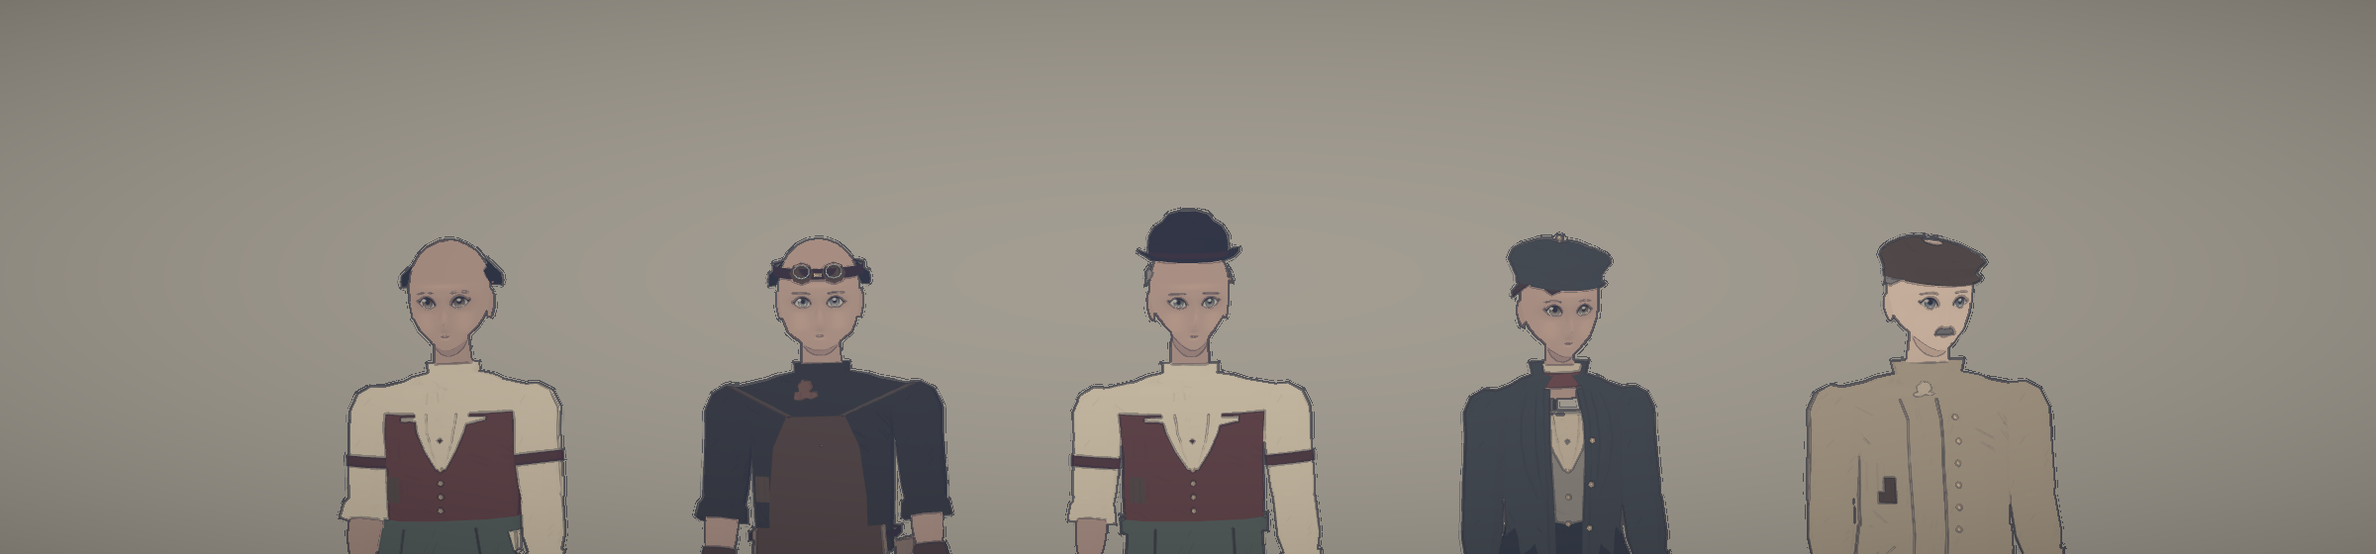
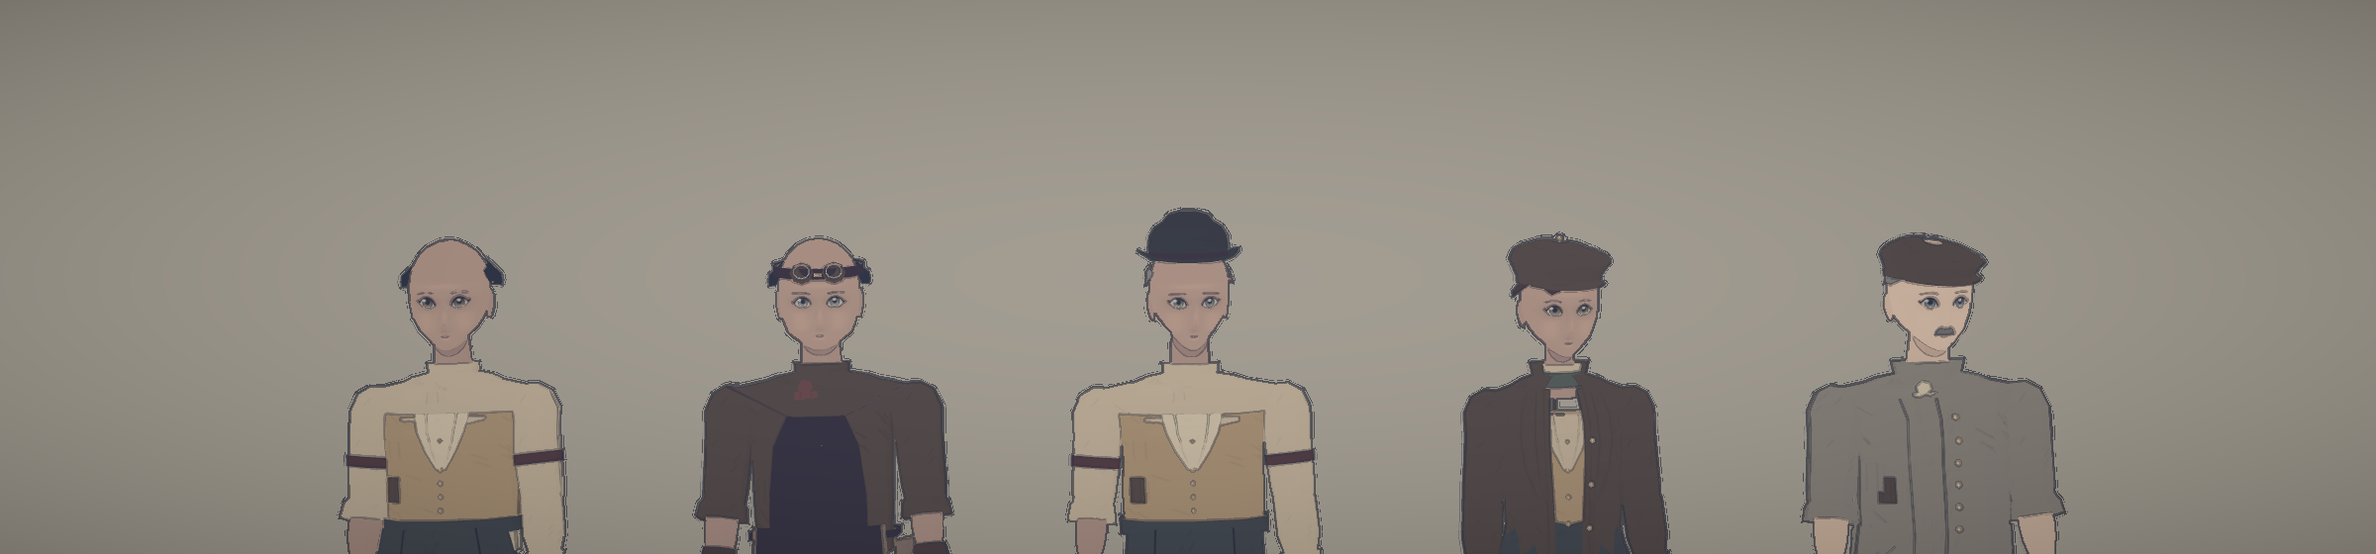
People XX: curated variation — every street archetype has at least three authored outfits (the courier's buttoned coat to mid-thigh and shirt-sleeves-and-waistcoat beside his jacket, the stallholder's shawl over a bibless apron, the older mechanic's canvas work apron beside his shop coat) and every 
Entire-Checkpoint: 01M4CJNK04WB8E5E0V7S1BC1SH

diff --git a/src/world/people/look.ts b/src/world/people/look.ts
@@ -33,8 +33,9 @@ export interface Cast {
   /** the face rows this cast is drawn from, where it narrows the head shape's rows (the older mechanic's heavier brows) */ faceRows?: readonly number[];
 }
 
-/** Faces are rows of the atlas. Rows 2 (teal), 3 (violet) and 7 (red) carry irises the Book forbids; they stay out of every table until the atlas is repainted. */
-export const FACE_ROWS: Record<HeadShape, readonly number[]> = { oval: [0, 1, 5], square: [4, 6, 0], long: [4, 5, 1], heart: [1, 5, 6] };
+/** Faces are rows of the atlas. The new builder's atlas (citizens.ts `faceTypesNext`) paints all eight rows with the Book's irises, so every row is dealt: six to each head shape, the hooked
+ *  nose and the heavier brows (2, 4, 6) to the square and long heads, the button and dot noses (1, 3, 5, 7) to the oval and heart. */
+export const FACE_ROWS: Record<HeadShape, readonly number[]> = { oval: [0, 1, 5, 3, 7, 2], square: [4, 6, 0, 2, 7, 3], long: [4, 5, 1, 2, 6, 7], heart: [1, 5, 6, 3, 0, 7] };
 /** Which hair a hat leaves room for. A hat never sits on a full head of hair (Book 7). */
 export const HAT_HAIR: Record<Hat, readonly HairStyle[]> = {
   none: ['shortCrop', 'sidePart', 'sweptBack', 'tousled', 'bob', 'lowBun', 'highKnot', 'ponytail', 'longTied', 'balding'],
@@ -54,35 +55,39 @@ export const CASTS: Record<CastId, Cast> = {
       o('rowCoat.closed', { ash: ['charcoal', 'stone', 'navy', 'charcoal', 'mustard'], oxblood: ['oxblood', 'canvas', 'slate', 'umber', 'stone'], stone: ['stone', 'umber', 'navy', 'stone', 'oxblood'] })] },
   rowSkirt: { id: 'rowSkirt', archetype: 'resident', families: ['slim', 'standard'], frames: ['narrow'], headShapes: allShapes, hair: ['lowBun', 'bob', 'ponytail', 'highKnot', 'longTied'], hairColours: young, hats: ['none', 'headscarf'], facial: [['none', 1]],
     slots: ['shawl', 'bodice', 'skirt', 'scarf'], asymmetries: ['scarfTail', 'pouchHip', 'apronTie'],
-    outfits: [o('rowSkirt.shawl', { ash: ['slate', 'bone', 'umber', 'greyGreen'], plum: ['oxblood', 'cream', 'charcoal', 'bone'] }), o('rowSkirt.plain', { moss: ['greyGreen', 'bone', 'umber', 'mustard'], umber: ['umber', 'cream', 'slate', 'oxblood'] })] },
+    outfits: [o('rowSkirt.shawl', { ash: ['slate', 'bone', 'umber', 'greyGreen'], plum: ['oxblood', 'cream', 'charcoal', 'bone'], ochre: ['mustard', 'cream', 'umber', 'slate'] }), o('rowSkirt.plain', { moss: ['greyGreen', 'bone', 'umber', 'mustard'], umber: ['umber', 'cream', 'slate', 'oxblood'], slate: ['slate', 'bone', 'charcoal', 'rust'] })] },
   elder: { id: 'elder', archetype: 'resident', families: ['slim'], frames: ['broad', 'narrow'], headShapes: ['oval', 'long', 'square'], hair: ['balding', 'shortCrop', 'lowBun', 'sidePart'], hairColours: aged, hats: ['elderHat', 'softCap', 'none'], facial: [['none', 4], ['moustache', 2], ['beard', 1]], elder: true,
     slots: ['coat', 'waistcoat', 'trousers', 'hat'], asymmetries: ['stick', 'basket', 'scarfTail'],
-    outfits: [o('elder.longCoat', { ash: ['charcoal', 'stone', 'stone', 'charcoal'], umber: ['umber', 'bone', 'slate', 'umber'] })] },
+    outfits: [o('elder.longCoat', { ash: ['charcoal', 'stone', 'stone', 'charcoal'], umber: ['umber', 'bone', 'slate', 'umber'], moss: ['greyGreen', 'bone', 'umber', 'greyGreen'] })] },
   affluent: { id: 'affluent', archetype: 'resident', families: ['slim', 'standard'], frames: ['broad', 'narrow'], headShapes: ['oval', 'long', 'heart'], hair: ['sweptBack', 'sidePart', 'lowBun', 'highKnot'], hairColours: young, hats: ['topHat', 'bonnet'], facial: [['none', 1]],
     slots: ['frock', 'waistcoat', 'trousers', 'hat', 'trim'], asymmetries: ['watchChain', 'unevenFront'],
-    outfits: [o('affluent.frock', { oxblood: ['burgundy', 'cream', 'slate', 'soot', 'mustard'], navy: ['navy', 'bone', 'stone', 'soot', 'ochre'] })] },
+    outfits: [o('affluent.frock', { oxblood: ['burgundy', 'cream', 'slate', 'soot', 'mustard'], navy: ['navy', 'bone', 'stone', 'soot', 'ochre'], moss: ['greyGreen', 'cream', 'charcoal', 'soot', 'ochre'] })] },
   stallholder: { id: 'stallholder', archetype: 'merchant', families: ['standard', 'sturdy'], frames: ['broad', 'narrow'], headShapes: allShapes, hair: ['lowBun', 'bob', 'tousled'], hairColours: young, hats: ['headscarf', 'none'], facial: [['none', 1]],
     slots: ['blouse', 'skirt', 'apron', 'scarf'], asymmetries: ['apronTie', 'pouchHip', 'scarfTail'],
-    outfits: [o('stallholder.apron', { ochre: ['cream', 'ochre', 'canvas', 'burgundy'], wine: ['bone', 'burgundy', 'stone', 'mustard'] })] },
+    outfits: [o('stallholder.apron', { ochre: ['cream', 'ochre', 'canvas', 'burgundy'], wine: ['bone', 'burgundy', 'stone', 'mustard'], slate: ['bone', 'slate', 'canvas', 'oxblood'] }),
+      o('stallholder.shawl', { moss: ['cream', 'greyGreen', 'bone', 'umber'], rust: ['bone', 'rust', 'canvas', 'slate'], navy: ['cream', 'navy', 'stone', 'mustard'] })] },
   shopMerchant: { id: 'shopMerchant', archetype: 'merchant', families: ['standard', 'sturdy'], frames: ['broad', 'narrow'], headShapes: allShapes, hair: ['sidePart', 'shortCrop', 'balding'], hairColours: mid, hats: ['bowler', 'none'], facial: [['none', 4], ['sideburns', 1]],
     slots: ['waistcoat', 'shirt', 'trousers', 'apron', 'hat'], asymmetries: ['watchChain', 'pencilEar', 'sleeveGarters'],
-    outfits: [o('shopMerchant.waistcoat', { wine: ['burgundy', 'cream', 'charcoal', 'greyGreen', 'soot'], ochre: ['mustard', 'bone', 'navy', 'slate', 'charcoal'] })] },
+    outfits: [o('shopMerchant.waistcoat', { wine: ['burgundy', 'cream', 'charcoal', 'greyGreen', 'soot'], ochre: ['mustard', 'bone', 'navy', 'slate', 'charcoal'], slate: ['slate', 'cream', 'umber', 'canvas', 'soot'] })] },
   labourer: { id: 'labourer', archetype: 'worker', families: ['sturdy', 'standard'], frames: ['broad'], headShapes: allShapes, hair: ['shortCrop', 'tousled', 'sidePart'], hairColours: young, hats: ['flatCap', 'none', 'softCap'], facial: [['none', 4], ['sideburns', 1]],
     slots: ['shirt', 'trousers', 'braces', 'cap', 'kerchief'], asymmetries: ['pouchHip', 'ragBelt', 'braceDown'], story: ['leatherApron', 'hook'],
     outfits: [o('labourer.braced', { dust: ['canvas', 'umber', 'leatherDark', 'slate', 'rust'], soot: ['stone', 'charcoal', 'leatherDark', 'soot', 'oxblood'], moss: ['greyGreen', 'stone', 'leather', 'umber', 'mustard'] }),
-      o('labourer.vested', { umber: ['bone', 'rust', 'oxblood', 'umber', 'greyGreen'], grey: ['canvas', 'slate', 'charcoal', 'stone', 'rust'] })] },
+      o('labourer.vested', { umber: ['bone', 'rust', 'oxblood', 'umber', 'greyGreen'], grey: ['canvas', 'slate', 'charcoal', 'stone', 'rust'], ochre: ['cream', 'umber', 'ochre', 'charcoal', 'oxblood'] })] },
   foundry: { id: 'foundry', archetype: 'worker', families: ['sturdy'], frames: ['broad', 'narrow'], headShapes: ['square', 'oval', 'long'], hair: ['shortCrop', 'tousled', 'balding'], hairColours: young, hats: ['kerchief', 'none'], facial: [['none', 4], ['sideburns', 1]],
     slots: ['shirt', 'trousers', 'apron', 'kerchief'], asymmetries: ['gogglesUp', 'pouchHip'],
-    outfits: [o('foundry.apron', { soot: ['charcoal', 'rust', 'leather', 'rust'], umber: ['umber', 'greyGreen', 'leatherDark', 'oxblood'] })] },
+    outfits: [o('foundry.apron', { soot: ['charcoal', 'rust', 'leather', 'rust'], umber: ['umber', 'greyGreen', 'leatherDark', 'oxblood'], grey: ['stone', 'charcoal', 'leather', 'slate'] })] },
   youngMechanic: { id: 'youngMechanic', archetype: 'engineer', families: ['slim', 'standard'], frames: ['broad', 'narrow'], headShapes: allShapes, hair: ['tousled', 'sweptBack', 'shortCrop', 'ponytail'], hairColours: young, hats: ['softCap', 'none'], facial: [['none', 4], ['sideburns', 1]],
     slots: ['jacket', 'shirt', 'trousers', 'roll', 'cap'], asymmetries: ['toolRoll', 'gogglesUp', 'ragBelt'], story: ['valveSleeve'],
-    outfits: [o('youngMechanic.jacket', { slate: ['slate', 'bone', 'canvas', 'leather', 'slate'], moss: ['greyGreen', 'cream', 'umber', 'leatherDark', 'greyGreen'] })] },
+    outfits: [o('youngMechanic.jacket', { slate: ['slate', 'bone', 'canvas', 'leather', 'slate'], moss: ['greyGreen', 'cream', 'umber', 'leatherDark', 'greyGreen'], umber: ['umber', 'bone', 'charcoal', 'leatherDark', 'umber'] })] },
   olderMechanic: { id: 'olderMechanic', archetype: 'engineer', families: ['standard', 'sturdy'], frames: ['broad', 'narrow'], headShapes: allShapes, hair: ['balding', 'shortCrop', 'sidePart'], hairColours: ['iron'], hats: ['flatCap', 'none'], facial: [['moustache', 5], ['beard', 1], ['none', 1]], faceRows: [2, 4, 6],
     slots: ['shopCoat', 'shirt', 'trousers', 'cap'], asymmetries: ['spectacles', 'pencilEar', 'ragBelt'],
-    outfits: [o('olderMechanic.shopCoat', { canvas: ['canvas', 'bone', 'greenCharcoal', 'umber'], slate: ['slate', 'cream', 'navy', 'slate'] })] },
+    outfits: [o('olderMechanic.shopCoat', { canvas: ['canvas', 'bone', 'greenCharcoal', 'umber'], stone: ['stone', 'cream', 'navy', 'umber'], bone: ['bone', 'cream', 'umber', 'leather'] }),
+      o('olderMechanic.apron', { canvas: ['canvas', 'bone', 'charcoal', 'umber'], bone: ['bone', 'cream', 'navy', 'slate'], stone: ['stone', 'cream', 'umber', 'greenCharcoal'] })] },
   courier: { id: 'courier', archetype: 'courier', families: ['slim'], frames: ['broad', 'narrow'], headShapes: allShapes, hair: ['shortCrop', 'tousled', 'ponytail', 'bob'], hairColours: young, hats: ['softCap'], facial: [['none', 1]],
     slots: ['jacket', 'shirt', 'trousers', 'satchel', 'scarf', 'cap'], asymmetries: ['satchelStrap', 'scarfTail'], story: ['threadStrap', 'noSatchel', 'scarfUp'],
-    outfits: [o('courier.jacket', { oxblood: ['oxblood', 'bone', 'greyGreen', 'leather', 'mustard', 'umber'], slate: ['slate', 'cream', 'umber', 'leather', 'oxblood', 'slate'] })] },
+    outfits: [o('courier.jacket', { oxblood: ['oxblood', 'bone', 'greyGreen', 'leather', 'mustard', 'umber'], slate: ['slate', 'cream', 'umber', 'leather', 'oxblood', 'slate'], moss: ['greyGreen', 'bone', 'umber', 'leather', 'oxblood', 'greyGreen'] }),
+      o('courier.coat', { umber: ['umber', 'cream', 'slate', 'leatherDark', 'mustard', 'umber'], navy: ['navy', 'bone', 'charcoal', 'leather', 'rust', 'navy'], rust: ['rust', 'bone', 'charcoal', 'leather', 'slate', 'charcoal'] }),
+      o('courier.vest', { mustard: ['mustard', 'cream', 'umber', 'leather', 'slate', 'umber'], stone: ['stone', 'bone', 'navy', 'leatherDark', 'oxblood', 'slate'], moss: ['greyGreen', 'cream', 'charcoal', 'leather', 'mustard', 'greyGreen'] })] },
   garrison: { id: 'garrison', archetype: 'guard', families: ['standard', 'sturdy'], frames: ['broad'], headShapes: ['square', 'oval', 'long'], hair: ['shortCrop'], hairColours: mid, hats: ['kepi'], facial: [['none', 4], ['moustache', 1], ['sideburns', 1]],
     slots: ['greatcoat', 'trousers', 'crossbelt', 'kepi'], asymmetries: ['crossbelt'],
     outfits: [o('garrison.greatcoat', { ordinance: ['greenCharcoal', 'soot', 'leatherDark', 'greenCharcoal'] })] },
@@ -108,6 +113,8 @@ export function hash(seed: number, stream: number): number {
 const unit = (seed: number, stream: number) => hash(seed, stream) / 4294967296;
 const pick = <T>(list: readonly T[], seed: number, stream: number): T => list[Math.floor(unit(seed, stream) * list.length)];
 const weighted = <T>(list: readonly (readonly [T, number])[], seed: number, stream: number): T => { const total = list.reduce((a, [, w]) => a + w, 0); let r = unit(seed, stream) * total; for (const [v, w] of list) { r -= w; if (r < 0) return v; } return list[list.length - 1][0]; };
+/** Every cast's place in the table: mixed into the face's streams, so one seed is a different face in every cast. */
+const CAST_N: Record<string, number> = {};
 /** The stream numbers, one per step of Book 11. */
 const S = { cast: 1, family: 2, frame: 3, stature: 4, skin: 5, shape: 6, face: 7, hat: 8, hair: 9, hairColour: 10, facial: 11, outfit: 12, palette: 13, asym: 14, asymCount: 15 } as const;
 
@@ -140,10 +147,15 @@ export function resolveLook(seed: number, archetype: Archetype, opts: LookOpts =
   const pool = ARCHETYPE_CASTS[archetype].filter(([c]) => !opts.casts || opts.casts.includes(c));
   const cast = CASTS[opts.cast ?? weighted(pool.length ? pool : ARCHETYPE_CASTS[archetype], seed, S.cast)];
   const family = opts.family ?? pick(cast.families, seed, S.family), frame = opts.frame ?? pick(cast.frames, seed, S.frame);
-  const stature = Math.round((.96 + .08 * unit(seed, S.stature)) * 1000) / 1000, skin = Math.floor(unit(seed, S.skin) * 3) as 0 | 1 | 2;
-  const headShape = pick(cast.headShapes, seed, S.shape), rows = FACE_ROWS[headShape].filter(r => !cast.faceRows || cast.faceRows.includes(r)), faceType = pick(rows.length ? rows : FACE_ROWS[headShape], seed, S.face);
+  // the face is drawn from the seed mixed with the cast (Book 11, "Variation"): never a function of the seed alone, so the same seed is a different person in every cast
+  const fs = hash(seed, 1000 + (CAST_N[cast.id] ??= Object.keys(CASTS).indexOf(cast.id)));
+  const stature = Math.round((.96 + .08 * unit(seed, S.stature)) * 1000) / 1000, skin = Math.floor(unit(fs, S.skin) * 3) as 0 | 1 | 2;
+  const headShape = pick(cast.headShapes, fs, S.shape), rows = FACE_ROWS[headShape].filter(r => !cast.faceRows || cast.faceRows.includes(r)), faceType = pick(rows.length ? rows : FACE_ROWS[headShape], fs, S.face);
   const hat = pick(cast.hats, seed, S.hat), hairStyle = pick(cast.hair.filter(h => HAT_HAIR[hat].includes(h)), seed, S.hair), hairColour = pick(cast.hairColours, seed, S.hairColour);
-  const facial = weighted(cast.facial, seed, S.facial), outfit = pick(cast.outfits, seed, S.outfit), pal = pick(Object.keys(outfit.palettes), seed, S.palette);
+  // outfit and palette are one authored combination, and neighbouring seeds (the spawn order) draw from alternate halves of the cast's combinations, so two of a cast side by side never
+  // wear the same outfit in the same colours (Book 11)
+  const combos = cast.outfits.flatMap(o2 => Object.keys(o2.palettes).map(p => [o2, p] as const)), half = combos.filter((_, i) => i % 2 === (seed & 1));
+  const facial = weighted(cast.facial, seed, S.facial), [outfit, pal] = pick(half.length ? half : combos, seed, S.outfit);
   const n = Math.min(cast.asymmetries.length, 1 + Math.floor(unit(seed, S.asymCount) * 2)), pool2 = [...cast.asymmetries], asymmetries: string[] = [];
   for (let i = 0; i < n; i++) asymmetries.push(pool2.splice(Math.floor(unit(seed, S.asym + 100 * i) * pool2.length), 1)[0]);
   return { cast: cast.id, family, frame, stature, skin, headShape, faceType, hairStyle, hairColour, hat, facial, outfit: outfit.id, palette: pal, asymmetries };

diff --git a/src/world/people/wardrobe.ts b/src/world/people/wardrobe.ts
@@ -331,7 +331,8 @@ export function dress(x: X) {
     longShell(rings, { start: 0, arc: Math.PI * 2 }, skirtM, 'stallskirt', .014);
     hemLoft(rings, .006, .008, 'stallhem', c(shade(I('skirt'), .8)));
     skirt.drop = .34; skirt.depth = .34;
-    apron(ap, { hemY: .36, hemW: .5, hemD: .6, aw: .95, bib: true, strapM: tie });
+    apron(ap, { hemY: .36, hemW: .5, hemD: .6, aw: .95, bib: look.outfit !== 'stallholder.shawl', strapM: tie });
+    if (look.outfit === 'stallholder.shawl') shawl(wool(I('scarf')), c(mix(I('scarf'), P.cloth.bone, .5))); // People XX: the shawl outfit
     if (asym.has('pouchHip')) pouch(lifted, offset(rib, .04), 1.06, -1.5, -1.1, leatherM);
     arms({ upM: blouse, off: .017, rolled: () => true });
     legs({ thighM: c(P.cloth.soot), boot: leatherDM, sole: lea(shade(LEATHERD, .7)), heavy: true, turnup: false, top: -.3 });
@@ -375,20 +376,30 @@ export function dress(x: X) {
     arms({ upM: jk, off: .017, shirtCuff: sh, glove, board: valve });
     legs({ thighM: trou, boot: leatherM, sole: lea(shade(LEATHERD, .6)), top: -.08, turnup: false, heavy: false, bootCuff: leatherDM, fit: .005 });
   }
-  if (id === 'olderMechanic') {
+  if (id === 'olderMechanic' && look.outfit !== 'olderMechanic.apron') {
     const coat = c(I('shopCoat')), sh = c(I('shirt')), trou = wool(I('trousers'));
     shirt(sh, { placket: false, collar: true, yoke: false, front: .3 });
     const r = jacket(coat, { closed: true, off: .02, hem: .48, hemW: .54, hemD: .46, curve: 1, buttons: 5, stand: true });
     for (const s of [-1, 1]) put0(tails, plate(r.rings!, [[-.1, s * .6, s * 1.15], [-.24, s * .6, s * 1.15]], .0, .008, 4), coat);
     put0(lifted, plate(r.cR, [[1.3, -1.25, -.8], [1.22, -1.25, -.8]], .0, .007, 3), coat);
     if (asym.has('ragBelt')) put0(tails, sweep([0, .3, .6, 1].map(t => ({ p: [.15 + t * .01, -.04 - t * .22, r.rings![0].f + .03] as Pt, a: .025, b: .004, n: [0, 0, 1] as Pt })), { seg: 4, capStart: true, capEnd: true }), c(P.cloth.bone));
-    arms({ upM: coat, off: .019, shirtCuff: sh });
+    arms({ upM: coat, off: .019, shirtCuff: sh, rolled: () => true });
+    legs({ thighM: trou, boot: leatherDM, sole: lea(shade(LEATHERD, .7)), top: -.34, turnup: true });
+  }
+  if (id === 'olderMechanic' && look.outfit === 'olderMechanic.apron') { // People XX: shirt sleeves rolled and a light canvas work apron to the shin, a rule in the bib pocket
+    const apM = c(I('shopCoat')), sh = c(I('shirt')), trou = wool(I('trousers'));
+    shirt(sh, { placket: true, collar: true }); belt(leatherDM, 1.07, .036, .018);
+    apron(apM, { hemY: .34, hemW: .5, hemD: .52, aw: .9, bib: true, strapM: leatherDM });
+    { const q = surface(offset(rib, .024), 1.36, .3, .004); put0(lifted, new T.Mesh(new T.BoxGeometry(.012, .09, .006)).geometry, steel, q.p.toArray() as Pt); }
+    if (asym.has('ragBelt')) put0(lifted, sweep([0, .3, .6, 1].map(t => { const q = surface(offset(rib, .04), 1.06, -1.0, .004); return { p: [q.p.x - t * .012, q.p.y - t * .2, q.p.z + .004 + t * .02] as Pt, a: .024, b: .004, n: [0, 0, 1] as Pt }; }), { seg: 4, capStart: true, capEnd: true }), c(P.cloth.bone));
+    arms({ upM: sh, off: .012, rolled: () => true });
     legs({ thighM: trou, boot: leatherDM, sole: lea(shade(LEATHERD, .7)), top: -.34, turnup: true });
   }
   if (id === 'courier') {
     const jk = wool(I('jacket')), sh = c(I('shirt')), trou = wool(I('trousers')), bag = lea(I('satchel')), strapSide = asym.has('satchelStrap') ? -1 : 1;
-    shirt(sh, { placket: true, collar: true, yoke: false, front: .8 });
-    const r = jacket(jk, { off: .02, aL: .2, aR: .2, hem: .88, hemW: .4, hemD: .32, buttons: 3, lapel: false });
+    const cut = look.outfit === 'courier.coat' ? 'coat' : look.outfit === 'courier.vest' ? 'vest' : 'jacket'; // People XX: a short jacket, a buttoned coat to mid-thigh, or shirt sleeves and a waistcoat
+    shirt(sh, { placket: true, collar: true, yoke: false, front: cut === 'vest' ? undefined : .8 });
+    const r = cut === 'vest' ? { cR: waistcoat(jk, { buttons: 4 }), rings: undefined } : jacket(jk, cut === 'coat' ? { off: .02, closed: true, hem: .64, hemW: .46, hemD: .36, buttons: 4, stand: true } : { off: .02, aL: .2, aR: .2, hem: .88, hemW: .4, hemD: .32, buttons: 3, lapel: false });
     belt(leatherDM, 1.06, .045);
     // the satchel strap wraps the jacket's own surface: over the shoulder, across the chest, round the side to the bag on the opposite hip
     const sd = strapSide, pts: SweepPt[] = [[1.52, sd * 1.35], [1.46, sd * .85], [1.38, sd * .42], [1.28, -sd * .05], [1.18, -sd * .6], [1.08, -sd * 1.05], [1.0, -sd * 1.5]].map(([y, a]) => { const q = surface(r.cR, y, a, .008); return { p: q.p.toArray() as Pt, a: .02, b: .005, n: q.n.toArray() as Pt }; });
@@ -400,7 +411,7 @@ export function dress(x: X) {
     put0(bg, loft([{ y: -.1, w: .115, f: .045, b: .045, n: 2.6 }, { y: 0, w: .125, f: .052, b: .052, n: 2.6 }, { y: .1, w: .12, f: .048, b: .048, n: 2.6 }], { seg: 10, capStart: 'flat', capEnd: 'flat', key: key('bag') }), bag, [0, -.04, .05]);
     put0(bg, plate([{ y: .1, w: .125, f: .05, b: .05, z: .05, n: 2.6 }, { y: -.0, w: .13, f: .056, b: .056, z: .05, n: 2.6 }], [[.1, -1.1, 1.1], [.0, -1.15, 1.15], [-.04, -.7, .7]], .0, .008, 6), edgeM, [0, -.04, 0]);
     put0(bg, new T.Mesh(new T.BoxGeometry(.03, .026, .008), brass).geometry, brass, [0, -.07, .112]); }
-    arms({ upM: jk, off: .017, shirtCuff: sh });
+    arms(cut === 'vest' ? { upM: sh, off: .011, rolled: () => true } : { upM: jk, off: .017, shirtCuff: sh });
     legs({ thighM: trou, boot: leatherM, sole: lea(shade(LEATHERD, .55)), heavy: true, top: -.22, turnup: false, fit: .004, bootCuff: leatherDM });
   }
   if (id === 'child') {

diff --git a/tests/variation.test.ts b/tests/variation.test.ts
@@ -1,0 +1,51 @@
+import { test } from 'node:test';
+import assert from 'node:assert/strict';
+import * as T from 'three';
+import { ARCHETYPE_CASTS, CASTS, resolveLook, type Look } from '../src/world/people/look.ts';
+import { buildFigure, BUILT } from '../src/world/people/figure.ts';
+import { kit } from './people-rig.ts';
+import type { Archetype } from '../src/world/palette.ts';
+
+/** Book 11, "Variation minimums" (People XX): curated options, measured the way QA II measured them (looks.json: seeds 0..19 of each street archetype under the street's cast weights). */
+const STREET: Archetype[] = ['resident', 'worker', 'merchant', 'courier', 'engineer'];
+const row = (a: Archetype, n = 20, from = 0) => Array.from({ length: n }, (_, i) => resolveLook(from + i, a, { casts: BUILT }));
+const face = (l: Look) => `${l.skin}/${l.headShape}/${l.faceType}`;
+
+test('at least 40 distinct faces in every hundred figures', () => {
+  for (const from of [0, 20, 100, 500]) {
+    const all = STREET.flatMap(a => row(a, 20, from)), n = new Set(all.map(face)).size;
+    assert.ok(n >= 40, `seeds ${from}..${from + 19}: ${n} distinct faces in 100`);
+  }
+});
+
+test('at most 10 of 95 neighbouring pairs share an outfit and palette; two of a cast side by side never do', () => {
+  let rep = 0; for (const a of STREET) { const r = row(a); for (let i = 1; i < r.length; i++) if (r[i].outfit === r[i - 1].outfit && r[i].palette === r[i - 1].palette) rep++; }
+  assert.ok(rep <= 10, `${rep} of 95 neighbours repeat`);
+  for (const a of Object.keys(ARCHETYPE_CASTS) as Archetype[]) for (const [cast] of ARCHETYPE_CASTS[a]) if (CASTS[cast].outfits.flatMap(o => Object.keys(o.palettes)).length > 1) for (let s = 1; s < 400; s++) { // (the Ordinance wears one uniform by design)
+    const p = resolveLook(s - 1, a, { cast }), q = resolveLook(s, a, { cast });
+    assert.ok(p.outfit !== q.outfit || p.palette !== q.palette, `${cast}: seeds ${s - 1} and ${s} wear the same ${q.outfit}/${q.palette}`);
+  }
+});
+
+test('every street archetype has at least three outfits, and every street outfit at least three palettes', () => {
+  for (const a of STREET) {
+    const casts = ARCHETYPE_CASTS[a].map(([c]) => CASTS[c]), outfits = casts.flatMap(c => c.outfits);
+    assert.ok(outfits.length >= 3, `${a}: ${outfits.length} outfits`);
+    for (const o of outfits) assert.ok(Object.keys(o.palettes).length >= 3, `${o.id}: ${Object.keys(o.palettes).length} palettes`);
+  }
+});
+
+test('the face is not a function of the seed alone: one seed is a different face in different casts', () => {
+  let same = 0; for (let s = 0; s < 200; s++) if (new Set(STREET.map(a => face(resolveLook(s, a, { casts: BUILT })))).size === 1) same++;
+  assert.equal(same, 0, `${same} seeds give one face in all five archetypes`);
+  let pairs = 0, hits = 0; for (let s = 0; s < 300; s++) { const a = resolveLook(s, 'merchant', { cast: 'stallholder' }), b = resolveLook(s, 'merchant', { cast: 'shopMerchant' }); pairs++; if (face(a) === face(b)) hits++; }
+  assert.ok(hits / pairs < .15, `the same seed is the same face in two casts ${(100 * hits / pairs).toFixed(0)} % of the time`);
+});
+
+test('a new outfit is a different garment, not a recolour', () => {
+  const tris = (l: Look) => { let n = 0; buildFigure(l, { solo: true }, kit()).group.traverse(o => { if (o instanceof T.Mesh) { const g = o.geometry as T.BufferGeometry; n += (g.index ? g.index.count : g.attributes.position.count) / 3; } }); return n; };
+  for (const cast of ['courier', 'stallholder', 'olderMechanic'] as const) {
+    const base = resolveLook(7, CASTS[cast].archetype, { cast, family: CASTS[cast].families[0], frame: CASTS[cast].frames[0] }), counts = CASTS[cast].outfits.map(o => tris({ ...base, outfit: o.id, palette: Object.keys(o.palettes)[0] }));
+    assert.equal(new Set(counts).size, counts.length, `${cast}: outfits ${CASTS[cast].outfits.map(o => o.id).join(', ')} build ${counts.join(', ')} triangles`);
+  }
+});

diff --git a/TERRA_CHARACTER_BOOK.md b/TERRA_CHARACTER_BOOK.md
@@ -736,6 +736,23 @@ Rules:
 - Identical twins are a bug, unless authored.
 - The whitelists are data, in one place, and are covered by a test (section 14).
 
+### Variation minimums
+
+Measured as QA II measured them (seeds 0 to 19 of each street archetype under the street's cast
+weights, 100 figures) and held by `tests/variation.test.ts`:
+
+- **Outfits:** every street archetype has at least three authored outfits, and every street outfit
+  at least three palettes from the cloth swatches. A new outfit is a different garment (the
+  courier's buttoned coat to mid-thigh, or shirt sleeves and a waistcoat; the stallholder's shawl
+  over a bibless apron; the older mechanic's canvas work apron), never a recolour.
+- **Neighbours:** outfit and palette are drawn as one combination, and neighbouring seeds (the spawn
+  order) draw from alternate halves of the cast's combinations, so two of a cast side by side never
+  match; at most 10 of the 95 neighbouring pairs of the QA rows may share an outfit and palette
+  (People XX: 0, from 30). The Ordinance keeps its one uniform.
+- **Faces:** at least 40 distinct faces (skin, head shape, face row) in every hundred (People XX: 56,
+  from 21). All eight atlas rows are dealt, six to each head shape, and the face is drawn from the
+  seed mixed with the cast, so one seed is never the same face in every cast.
+
 ---
 
 ## 12. Animation
